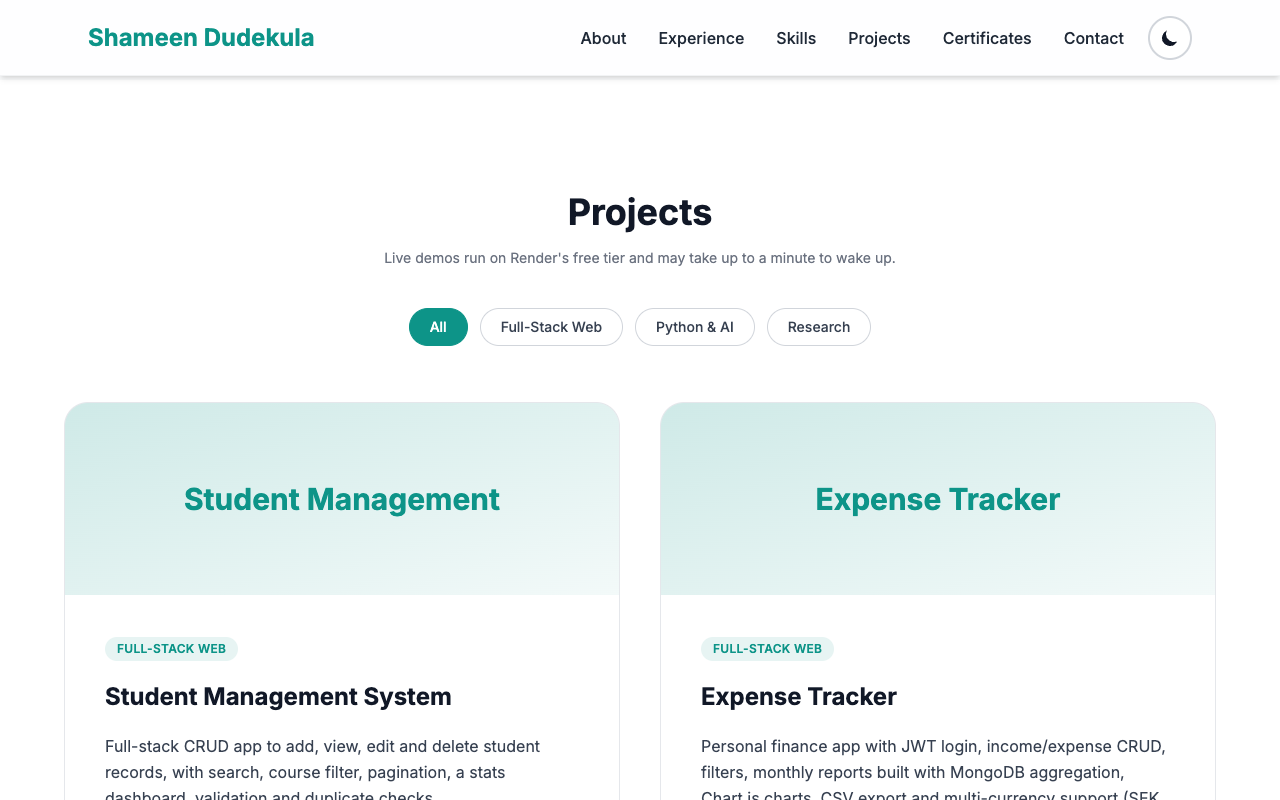
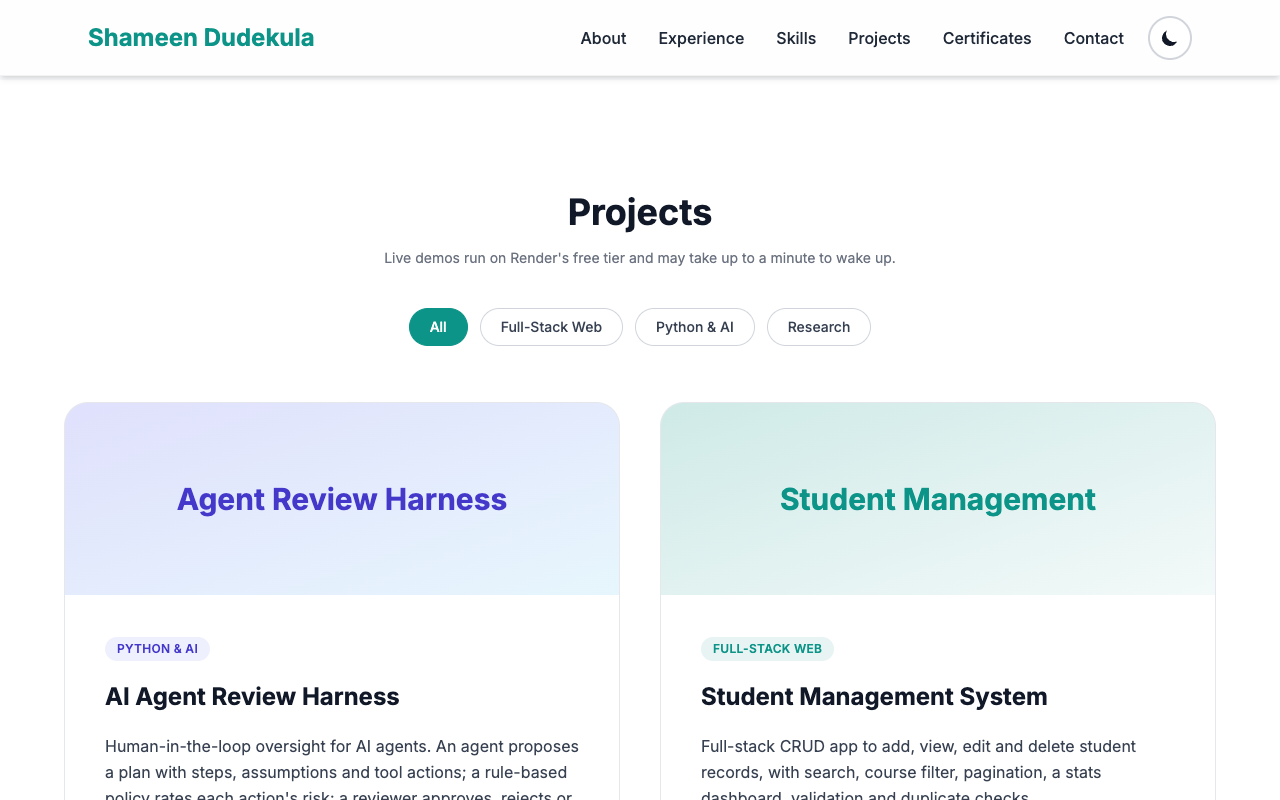
Add AI Agent Review Harness project

diff --git a/index.html b/index.html
@@ -310,6 +310,29 @@
 
         <div class="grid md:grid-cols-2 gap-10">
 
+          <!-- AI Agent Review Harness -->
+          <article data-category="ai" x-show="filter === 'all' || filter === 'ai'"
+                   class="bg-white dark:bg-gray-900 rounded-3xl border border-gray-200 dark:border-gray-700 overflow-hidden hover:shadow-2xl transition reveal">
+            <div class="h-48 bg-gradient-to-br from-indigo-500/20 to-sky-500/10 flex items-center justify-center px-6">
+              <p class="text-3xl font-bold text-indigo-700 dark:text-indigo-400 text-center">Agent Review Harness</p>
+            </div>
+            <div class="p-8 md:p-10 space-y-5">
+              <span class="inline-block px-3 py-1 text-xs font-semibold uppercase tracking-wide rounded-full bg-indigo-500/10 text-indigo-700 dark:text-indigo-300">Python &amp; AI</span>
+              <h3 class="text-2xl font-bold">AI Agent Review Harness</h3>
+              <p class="text-gray-700 dark:text-gray-300 leading-relaxed">
+                Human-in-the-loop oversight for AI agents. An agent proposes a plan with steps, assumptions and tool actions; a rule-based policy rates each action's risk; a reviewer approves, rejects or requests a revision; and the backend re-authorizes every action from an append-only audit trail before any simulated tool runs. Includes a reproducible evaluation comparing structured review with a simple approve-or-stop gate.
+              </p>
+              <p class="text-sm text-gray-600 dark:text-gray-400">Python • FastAPI • PostgreSQL • SQLAlchemy • React • TypeScript • Tailwind CSS • Playwright • GitHub Actions • Render</p>
+              <p class="text-xs text-gray-500 dark:text-gray-400">157 backend tests, 15 frontend tests and 6 end-to-end journeys in CI · The demo uses a mock agent and simulated tools</p>
+              <div class="flex flex-wrap gap-4 pt-2">
+                <a href="https://github.com/Shameendudekula/ai-agent-review-harness" target="_blank" rel="noopener noreferrer"
+                   class="inline-block px-6 py-3 bg-primary text-white font-medium rounded-lg hover:bg-teal-700 transition">View Code</a>
+                <a href="https://review-harness-web.onrender.com/" target="_blank" rel="noopener noreferrer"
+                   class="inline-block px-6 py-3 border-2 border-primary text-primary dark:text-white font-medium rounded-lg hover:bg-primary hover:text-white transition">Live Demo</a>
+              </div>
+            </div>
+          </article>
+
           <!-- Student Management System -->
           <article data-category="web" x-show="filter === 'all' || filter === 'web'"
                    class="bg-white dark:bg-gray-900 rounded-3xl border border-gray-200 dark:border-gray-700 overflow-hidden hover:shadow-2xl transition reveal">

diff --git a/README.md b/README.md
@@ -20,7 +20,7 @@ Personal portfolio of **Shameen Dudekula**, a Computer Science and Engineering s
 | **About** | Short introduction, Education (BTH, JNTUA) and a 2024–2026 journey timeline |
 | **Experience** | Infosys Springboard Virtual Internship 7.0 |
 | **Skills** | Programming, Web & Backend, Data & Applied AI, Tools |
-| **Projects** | Student Management System, Expense Tracker, Mini Store (e-commerce), WardrobeIQ, COVID-19 Simulation, AI Real Estate Valuation, XMENTOR (research), Student Learning Hub |
+| **Projects** | AI Agent Review Harness, Student Management System, Expense Tracker, Mini Store (e-commerce), WardrobeIQ, COVID-19 Simulation, AI Real Estate Valuation, XMENTOR (research), Student Learning Hub |
 | **Certificates & Activities** | Web Development Internship, Ideation 2026 Phase 1 |
 | **Contact** | Contact form plus LinkedIn, GitHub and email |
 
